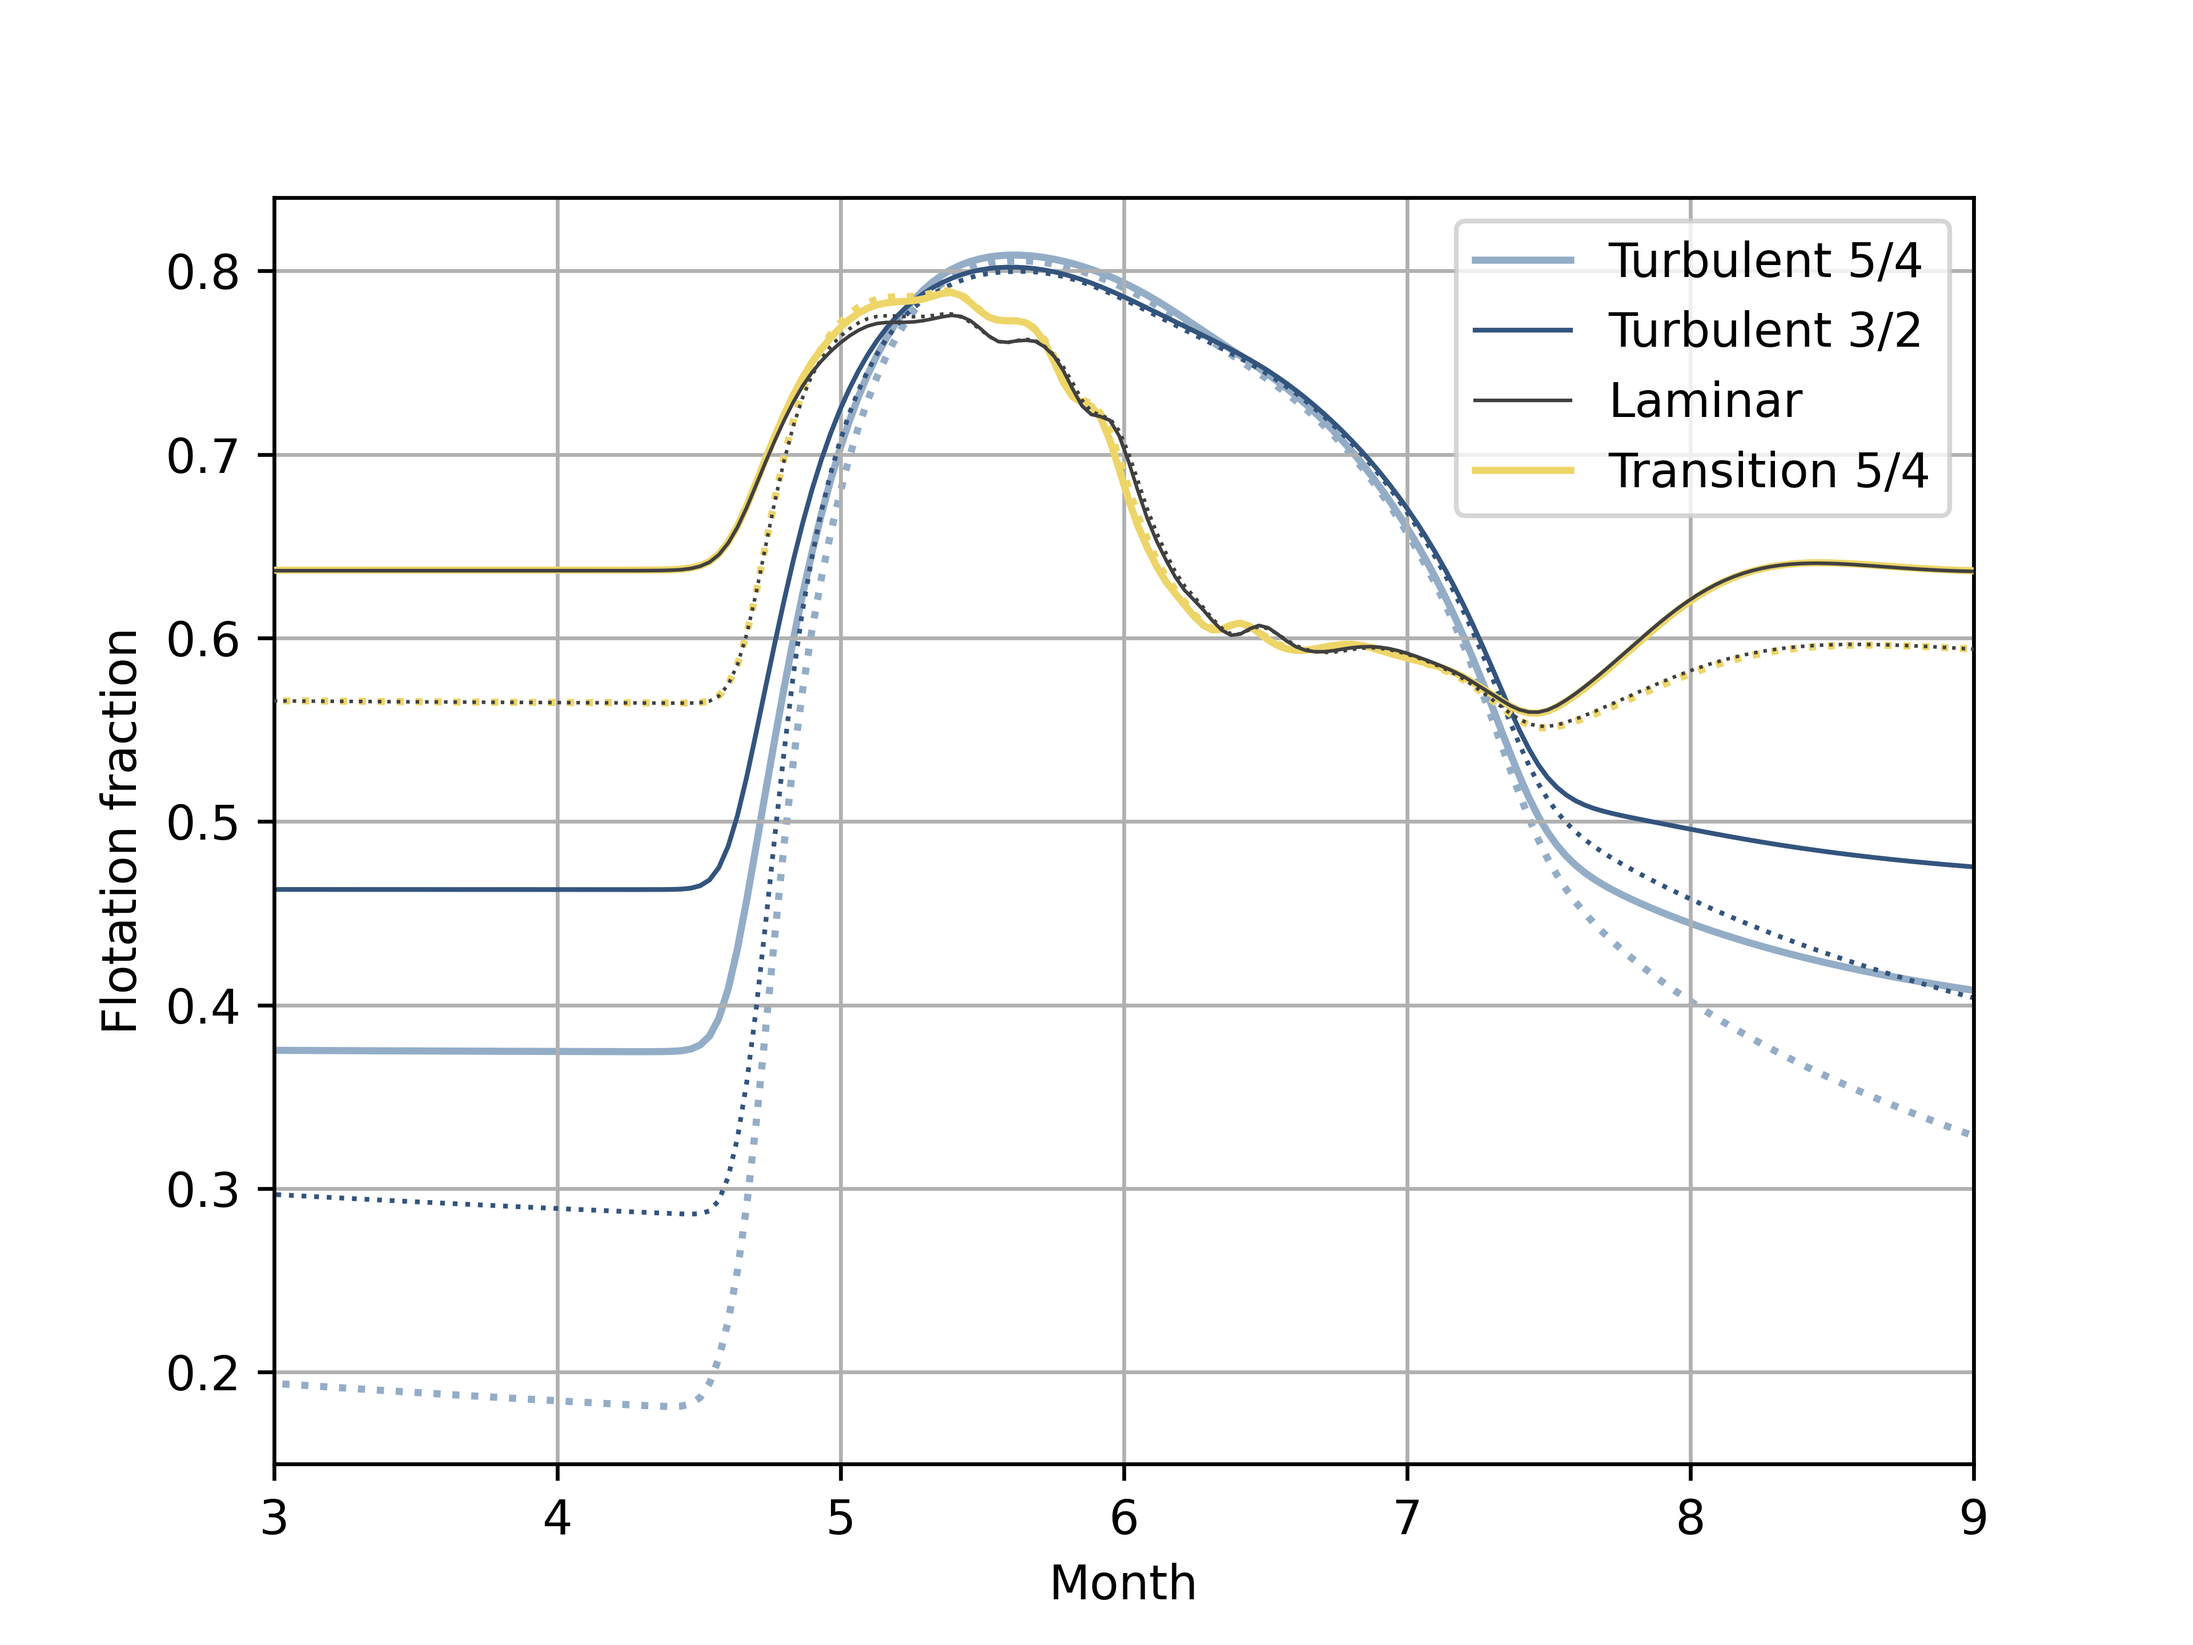
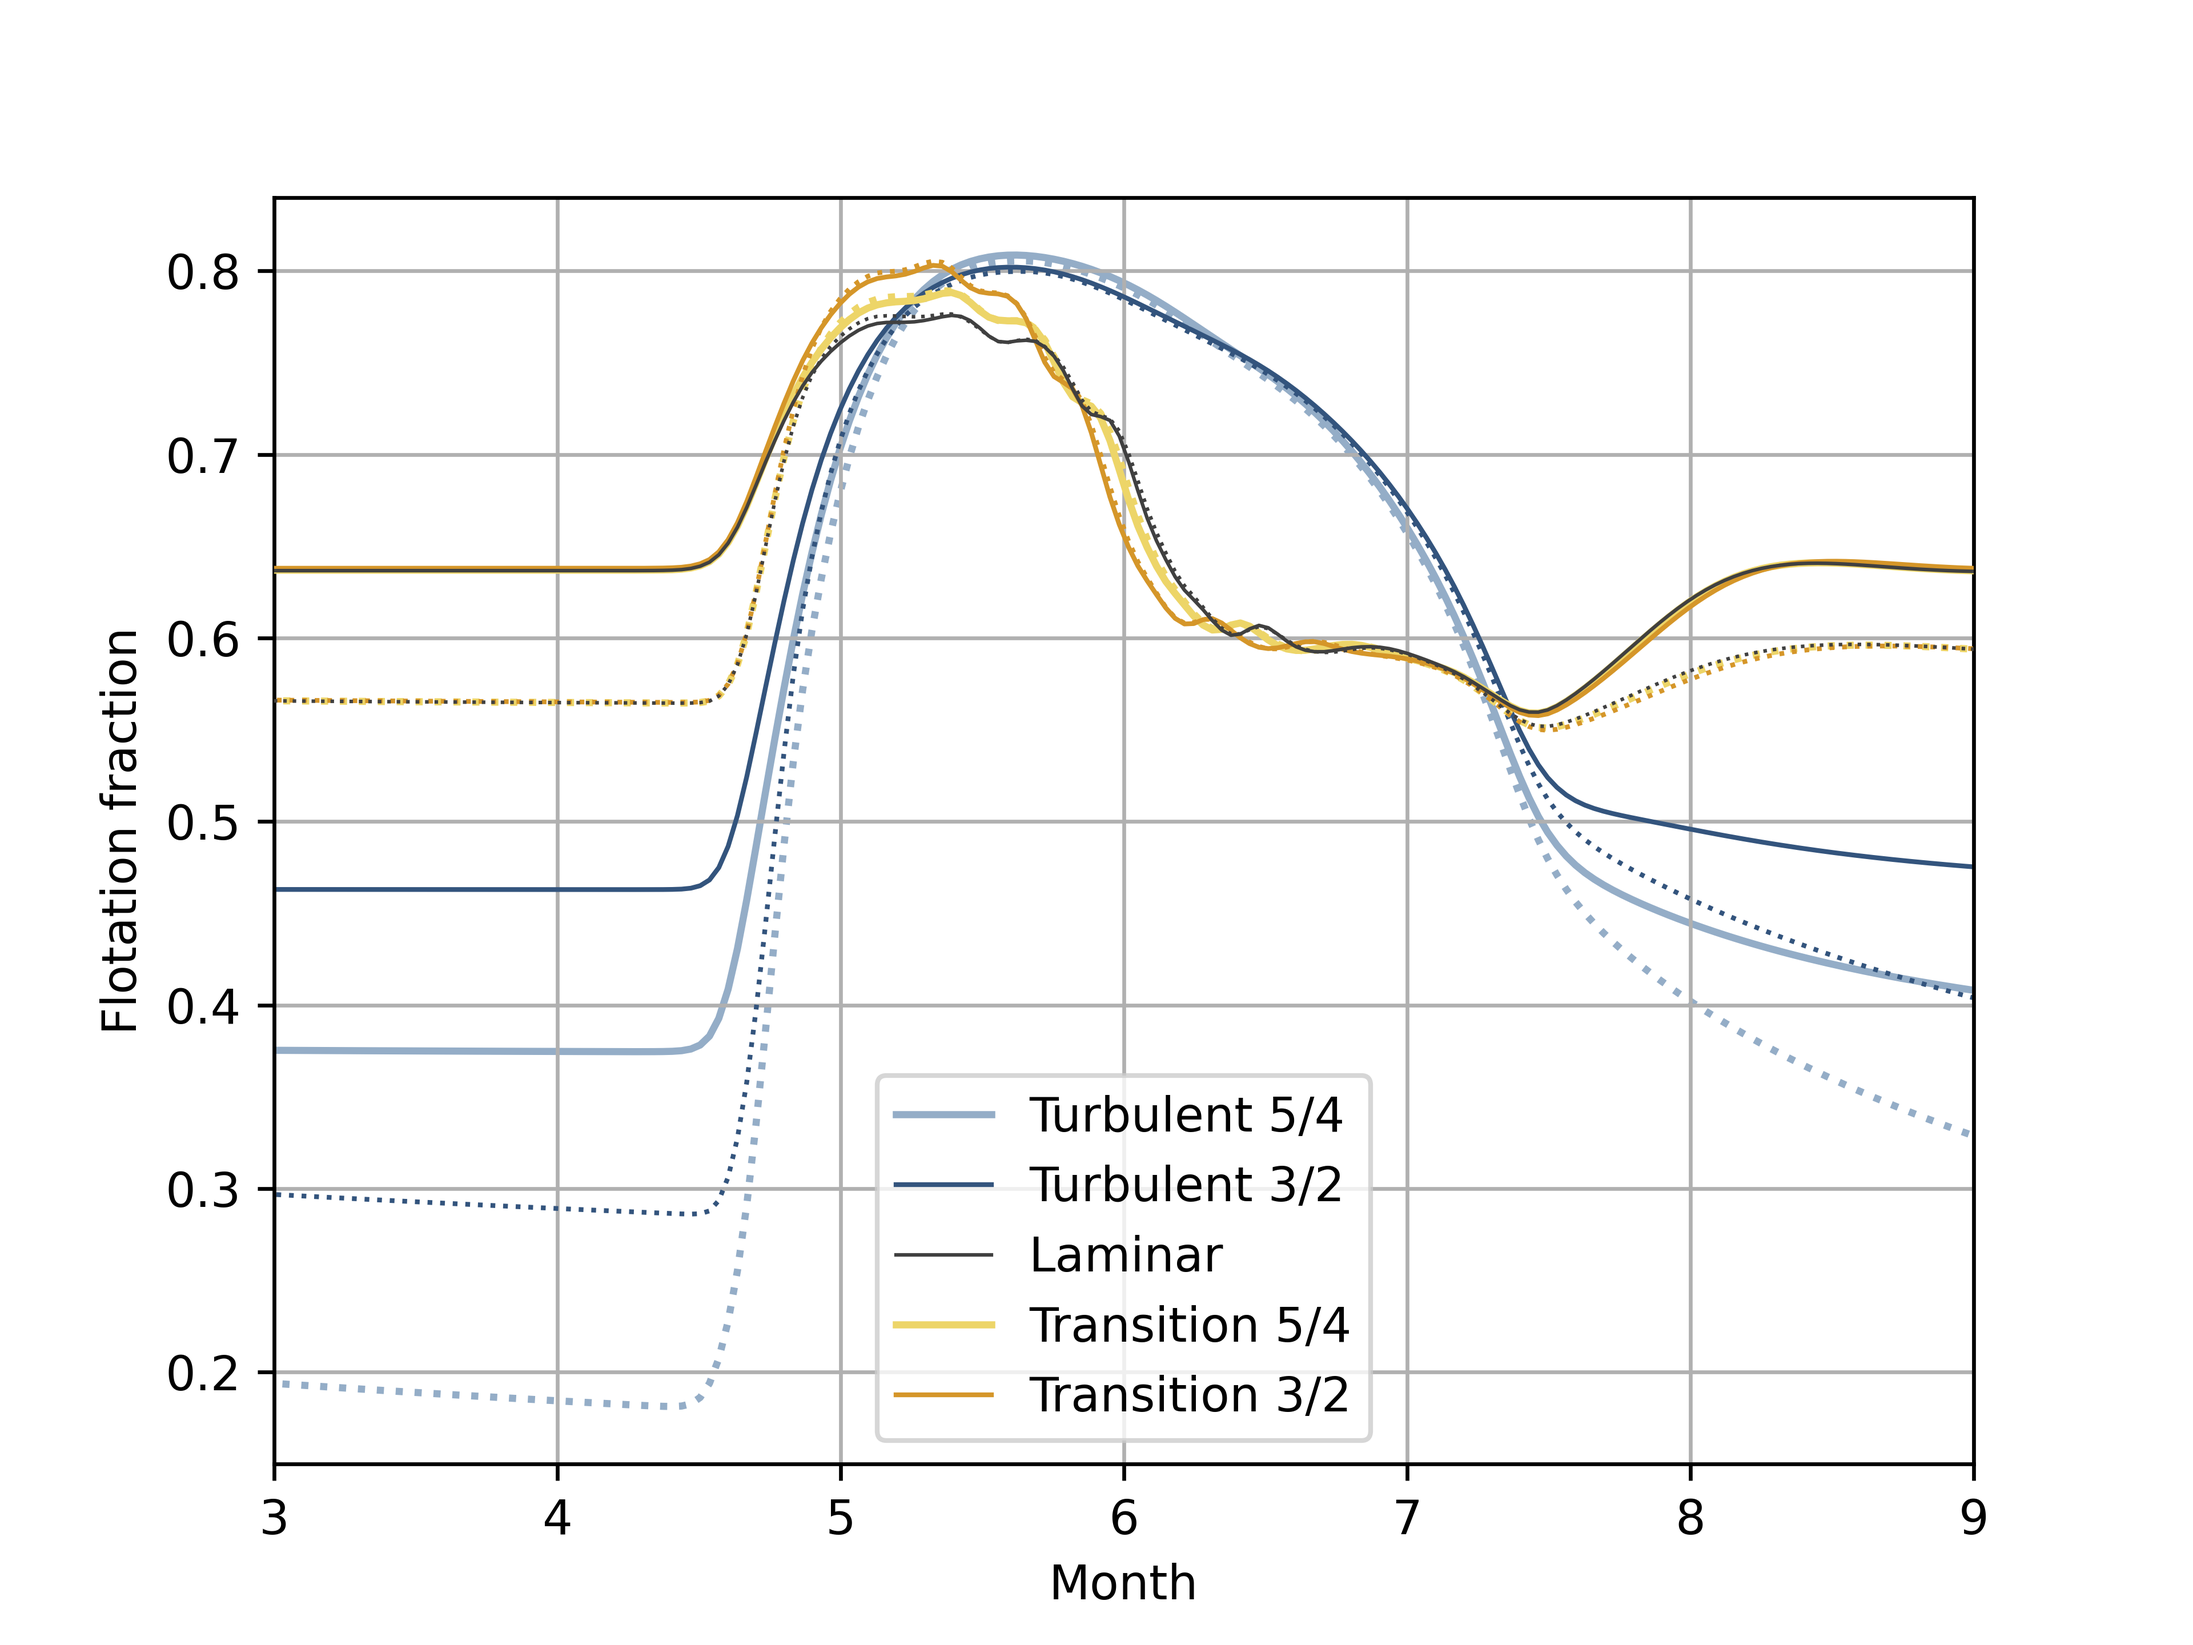
Add Trans 3/2 model

diff --git a/glads/00b_synth_forcing_winter/analysis/compare_winter.py b/glads/00b_synth_forcing_winter/analysis/compare_winter.py
@@ -11,7 +11,7 @@ import netCDF4 as nc
 import scipy.interpolate
 
 
-cases = [1, 2, 3, 4]
+cases = [1, 2, 3, 4, 5]
 slow_base = '../../00_synth_forcing/RUN/output_%03d_seasonal.nc'
 fast_base = '../RUN/output_%03d_seasonal.nc'
 labels = ['Turbulent 5/4', 'Turbulent 3/2', 'Laminar',
@@ -23,8 +23,8 @@ colors = np.array([[0.579, 0.677, 0.781, 1],
                    [0.929, 0.835, 0.408, 1],
                    [0.836, 0.590, 0.160, 1]])
 linestyles = ['solid', 'dotted']
-lws = [1.5, 1, 0.75, 1.5]
-zorders = [1, 2, 4, 3]
+lws = [1.5, 1, 0.75, 1.5, 1]
+zorders = [1, 2, 5, 3, 4]
 
 fig, ax = plt.subplots()
 
